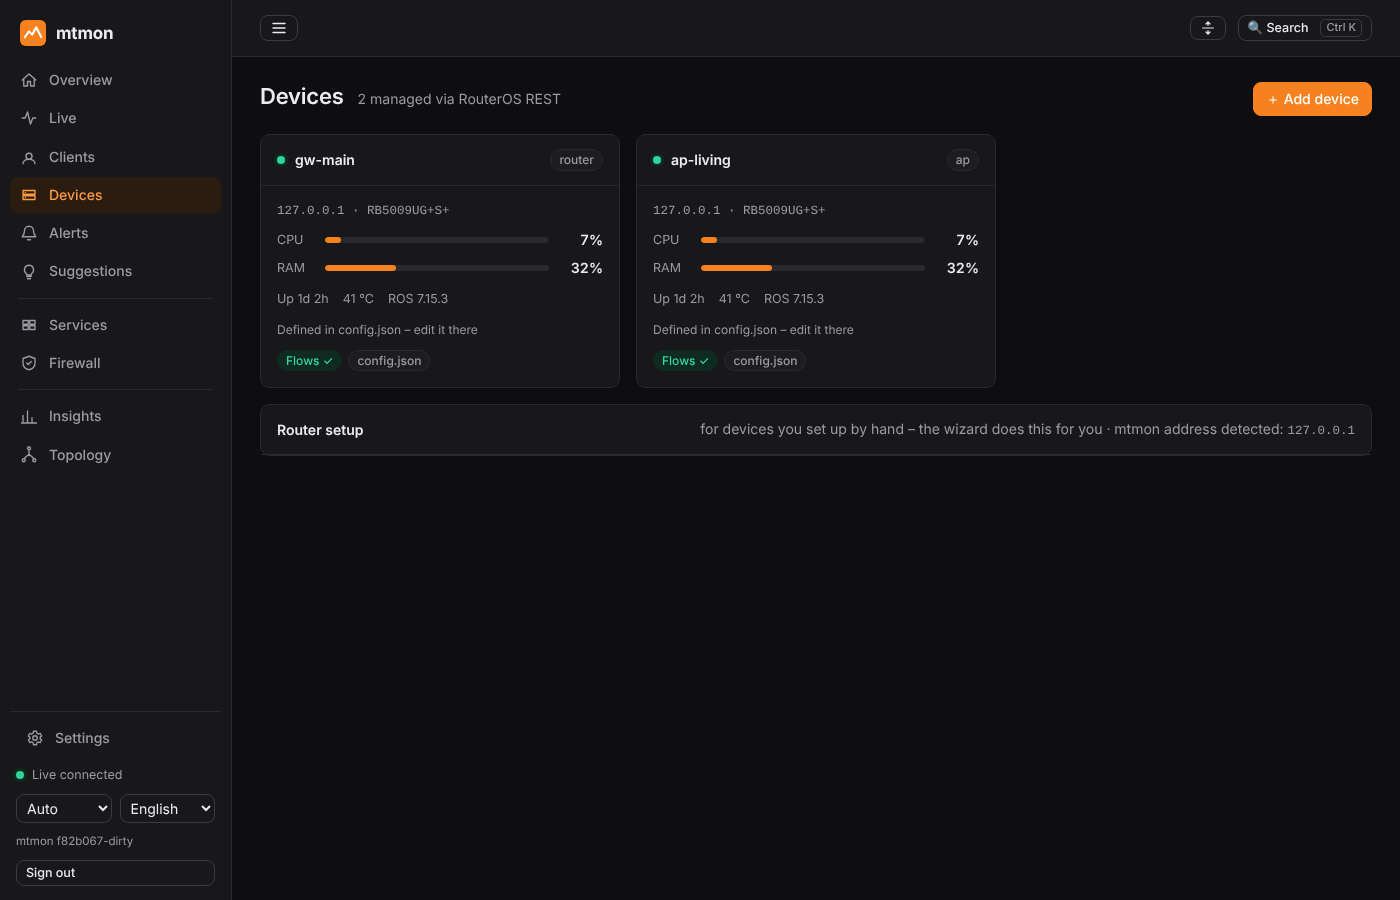
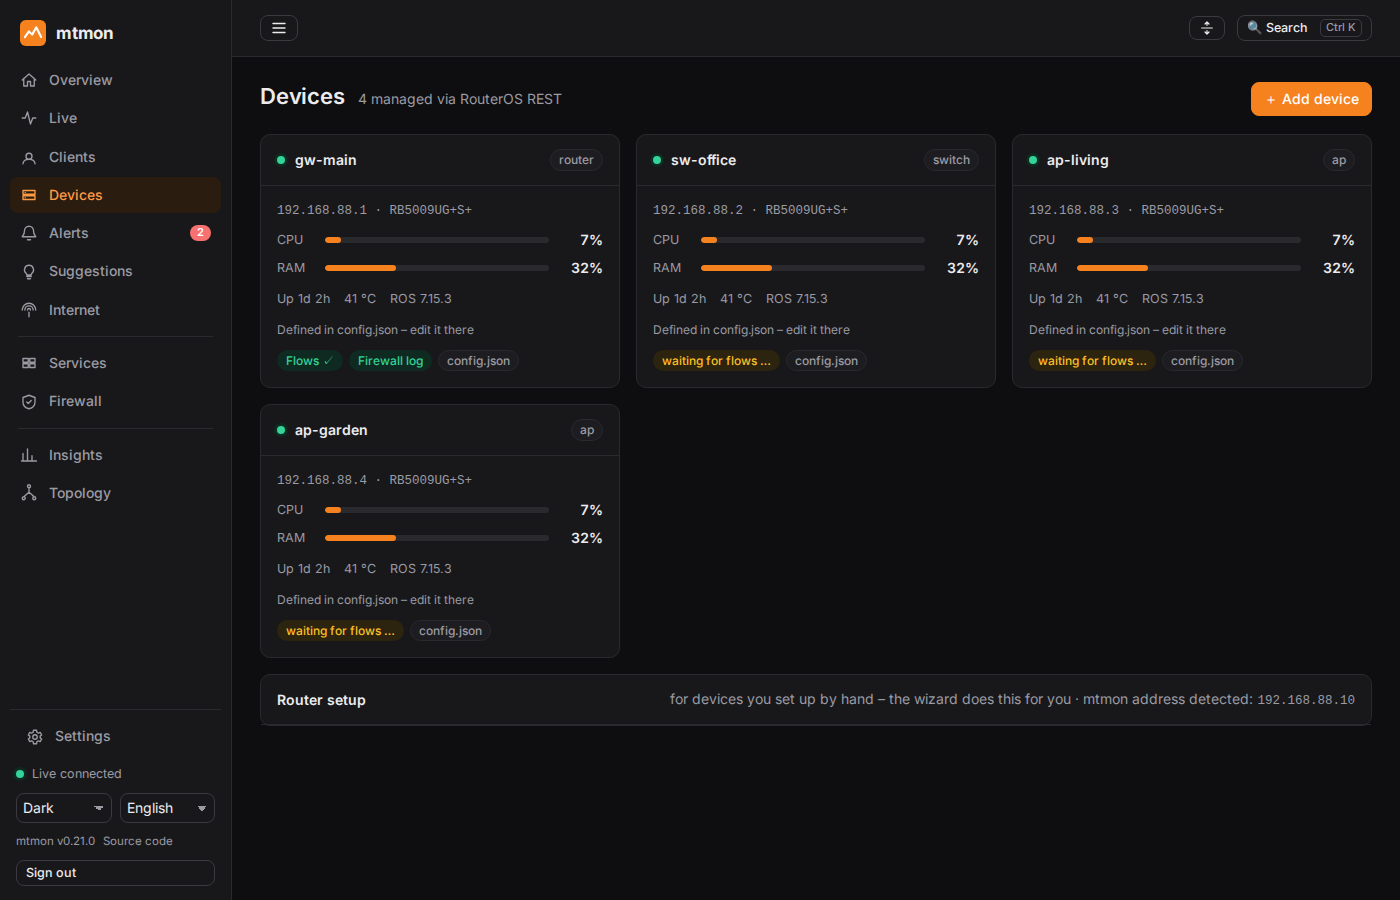
docs: refresh screenshots, demo GIF and social preview (#353)
Output of the `screenshots` workflow (run 41987902994), v0.21.0 against
the mock backend. The workflow could not open the PR itself because
Actions may not create pull requests in this repo.

- All 13 README screenshots refreshed: English UI, synthetic names,
documentation IPs.
- `docs/img/demo.gif` (2.6 MB) replaces the static image at the top of
the README.
- `docs/social-preview.png` for the upload under Settings -> Social
preview.

Viewed before opening: overview, clients, client connections, devices,
firewall, wizard, social preview, GIF. No private data found.

Fixes #306
Refs #308

diff --git a/README.md b/README.md
@@ -13,7 +13,7 @@ One small container, zero-touch device onboarding, fully reversible.</p>
 <p align="center">Web interface in <b>English</b> and <b>Deutsch</b> (language switch in the sidebar) &middot; this README is in English, the <a href="docs/runbook.md">runbook</a> and <a href="docs/router-setup.md">router setup</a> are in German</p>
 
 <!-- demo-media:start -->
-<p align="center"><img src="docs/img/overview.png" alt="mtmon overview dashboard" width="900"></p>
+<p align="center"><img src="docs/img/demo.gif" alt="mtmon demo: overview, clients, firewall, suggestions" width="900"></p>
 <!-- demo-media:end -->
 
 ## Table of contents
